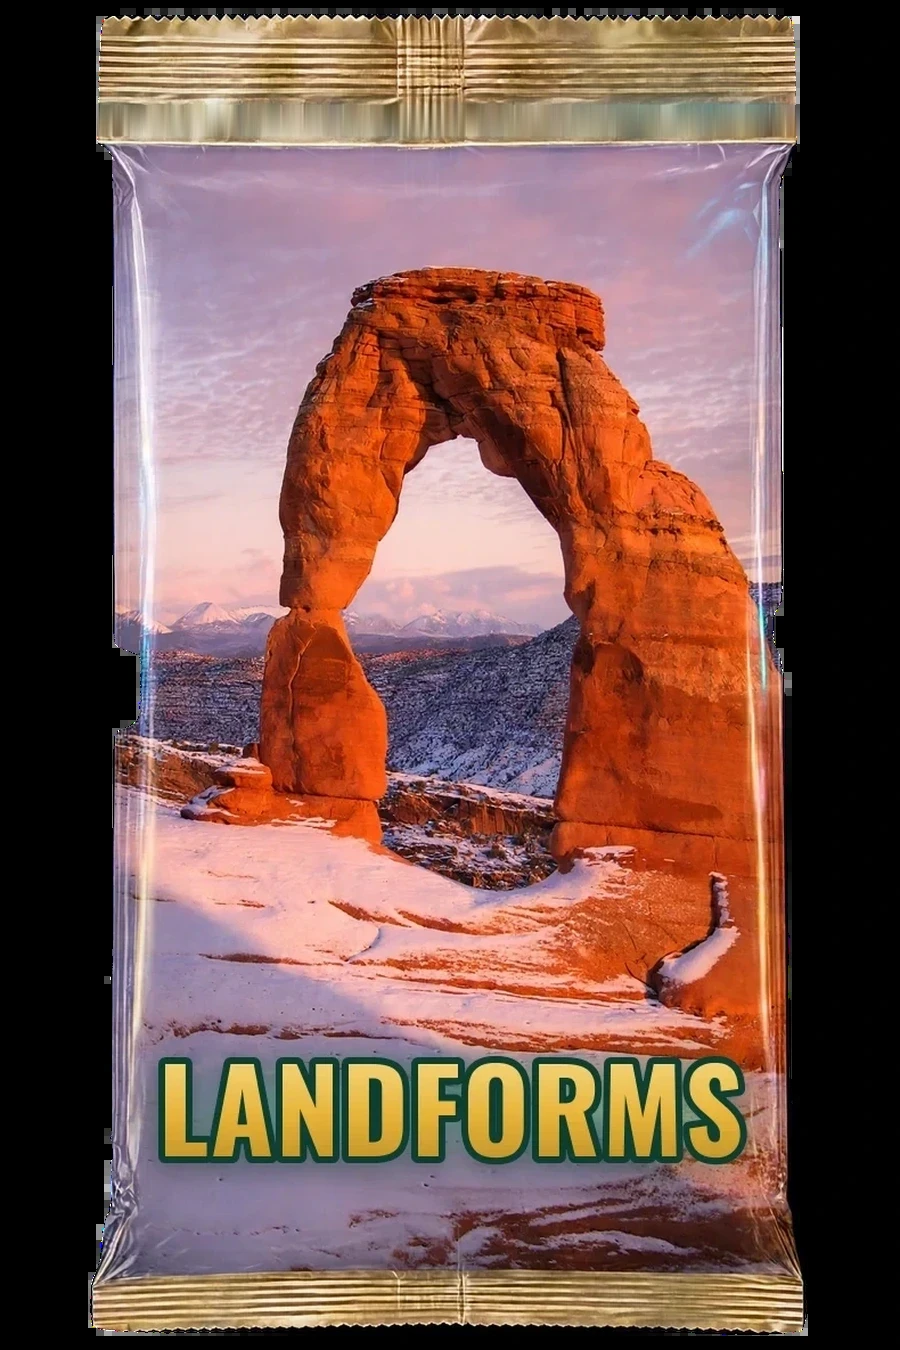
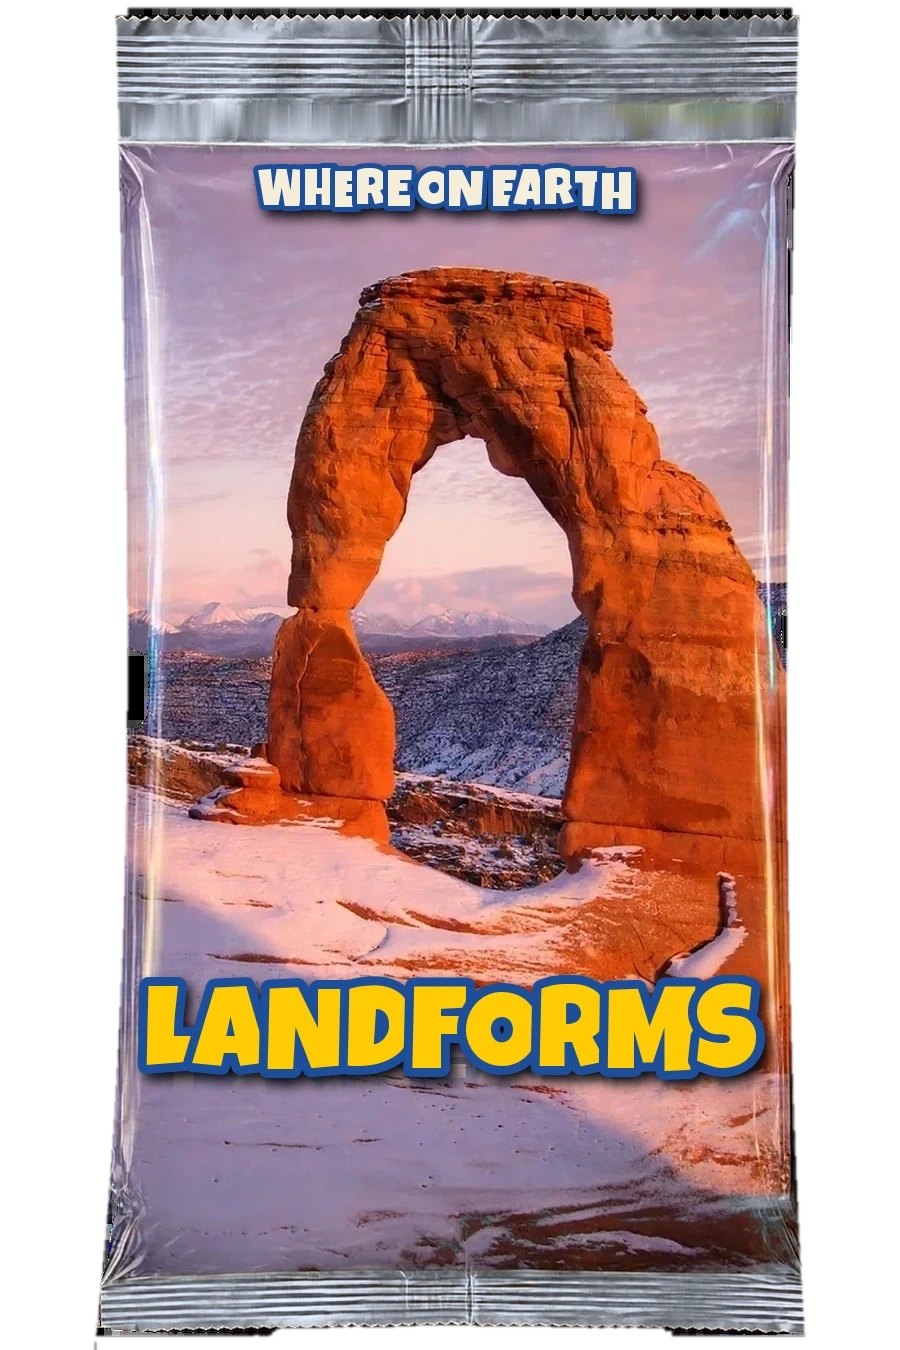
Pack line redesign: one logotype template, silver crimps, home wordmark
All four pack covers rebuilt on one template: WHERE ON EARTH brand line in cream over the pack-name hero in the booster logotype (Luckiest Guy, yellow fill, navy outline), silver crimped seals in place of gold. World Capitals and World Cities carry the lockup at top; Landmarks and Landforms keep the brand at top with the hero low, where their photos need it. Baked gold titles removed via title-less generative passes band-composited onto the existing art. Home wordmark and boot title use the same treatment (self-hosted Luckiest Guy woff2). Pack select: the 12-hour subline is gone, and the open-a-pack-now skip shortcut only shows when zero packs are stored.

diff --git a/src/styles/game.css b/src/styles/game.css
@@ -255,10 +255,10 @@ button { font: inherit; }
 body.game-settings #hud { opacity: 0; }
 .start-screen { display: flex; box-sizing: border-box; flex-direction: column; align-items: center; justify-content: safe center; overflow-y: auto; padding: calc(env(safe-area-inset-top, 0px) + 16px) 28px calc(env(safe-area-inset-bottom, 0px) + 28px); text-align: center; background: linear-gradient(180deg, rgba(2,4,9,.12), rgba(2,4,9,.56)); }
 .eyebrow { margin: 0 0 10px; color: #77caff; font-size: var(--fs-caption); font-weight: 750; letter-spacing: .18em; text-transform: uppercase; }
-h1 { max-width: 330px; margin: 0; color: var(--ink-title); font-size: clamp(46px, 15vw, 68px); line-height: .9; letter-spacing: -.065em; text-shadow: 0 0 30px rgba(77,176,255,.35); }
+h1 { max-width: 340px; margin: 0; font-family: 'Luckiest Guy', 'Arial Black', sans-serif; color: #FFCB05; font-size: clamp(44px, 14.5vw, 64px); line-height: .95; letter-spacing: .01em; -webkit-text-stroke: 2px #1E4E9C; text-shadow: 0 3px 0 #1E4E9C, 0 6px 14px rgba(0,0,0,.45); }
 /* Returning players get a compact one-line title; the big two-line title is
    a first-run treatment. */
-.start-screen.has-passport h1 { max-width: 100%; font-size: clamp(27px, 8.2vw, 34px); letter-spacing: -.04em; white-space: nowrap; }
+.start-screen.has-passport h1 { max-width: 100%; font-size: clamp(26px, 8vw, 33px); letter-spacing: .01em; white-space: nowrap; -webkit-text-stroke-width: 1.4px; text-shadow: 0 2px 0 #1E4E9C, 0 4px 10px rgba(0,0,0,.45); }
 .how-to { max-width: 310px; margin: 24px 0 28px; color: rgba(218,237,255,.78); font-size: var(--fs-base); line-height: 1.5; }
 .primary { min-width: 172px; min-height: 52px; padding: 0 24px; border: 0; border-radius: 999px; background: var(--ink-btn); color: #071426; font-weight: 800; cursor: pointer; box-shadow: 0 8px 28px rgba(89,185,255,.28); touch-action: manipulation; }
 .primary:active { transform: scale(.98); }
@@ -482,7 +482,7 @@ body.has-guess #hud { opacity: 0; }
 .boot-orb::after { content: ""; position: absolute; inset: -7px; border-radius: 50%; border: 2px solid transparent; border-top-color: rgba(127, 210, 244, .75); animation: boot-spin 1.1s linear infinite; }
 @keyframes boot-spin { to { transform: rotate(360deg); } }
 @keyframes boot-breathe { 50% { box-shadow: 0 0 0 1px rgba(127, 210, 244, .5), 0 0 46px rgba(77, 176, 255, .45), inset -8px -10px 18px rgba(0, 0, 0, .5); } }
-#boot .boot-title { margin: 0; color: var(--ink-title); font-size: 34px; font-weight: 800; line-height: 1; letter-spacing: -.045em; text-shadow: 0 0 30px rgba(77, 176, 255, .35); }
+#boot .boot-title { margin: 0; font-family: 'Luckiest Guy', 'Arial Black', sans-serif; color: #FFCB05; font-size: 34px; line-height: 1; letter-spacing: .01em; -webkit-text-stroke: 1.6px #1E4E9C; text-shadow: 0 3px 0 #1E4E9C, 0 6px 14px rgba(0,0,0,.45); }
 #boot .boot-stage { min-height: 20px; margin: 18px 0 12px; color: rgba(218, 237, 255, .82); font-size: 14px; font-weight: 600; }
 #boot .load-bar { width: min(240px, calc(100vw - 80px)); }
 #boot .boot-meta { display: flex; justify-content: space-between; width: min(240px, calc(100vw - 80px)); min-height: 16px; margin: 8px 0 0; color: rgba(var(--rgb-muted), .55); font-size: var(--fs-small); font-weight: 600; font-variant-numeric: tabular-nums; }
@@ -1159,6 +1159,7 @@ body.game-stats #hud { opacity: 0; }
 .pp-pack-progress { margin: 7px 40px 12px 0; color: rgba(var(--rgb-muted),.68); font-size: var(--fs-small); font-weight: 700; font-variant-numeric: tabular-nums; }
 .pp-pack-section { margin-top: 8px; border: 1px solid rgba(var(--rgb-line),.12); border-radius: 12px; overflow: hidden; background: rgba(var(--rgb-line),.025); }
 @font-face { font-family: 'Oswald'; src: url('../../assets/oswald-bold.woff2') format('woff2'); font-weight: 700; font-display: swap; }
+@font-face { font-family: 'Luckiest Guy'; src: url('../../assets/luckiest-guy.woff2') format('woff2'); font-weight: 400; font-display: swap; }
 .pp-pack-head { display: grid; grid-template-columns: 4px minmax(0,1fr) auto 12px; align-items: center; gap: 10px; width: 100%; min-height: 48px; padding: 7px 10px 10px 0; border: 0; background: var(--mail-paper); color: #22355c; font: inherit; text-align: left; cursor: pointer; touch-action: manipulation; position: relative; }
 .pp-pack-head-mail { grid-template-columns: 42px minmax(0,1fr) auto 12px; min-height: 58px; padding: 7px 10px; }
 .pp-pack-bar { width: 4px; align-self: stretch; }

diff --git a/src/modes/pack.js b/src/modes/pack.js
@@ -315,7 +315,9 @@ export function showPackSelect() {
     const waitHours = pack.record.stamina.nextAt == null ? 0
       : Math.max(0, Math.ceil((pack.record.stamina.nextAt - Date.now()) / (60 * 60 * 1000)));
     els.selectStamina.innerHTML = `<div class="pack-stamina-line"><span class="pack-icons" aria-hidden="true">${pack.record.stamina.stored > 0 ? PACK_ICON_FULL : PACK_ICON_EMPTY}${pack.record.stamina.stored > 1 ? PACK_ICON_FULL : PACK_ICON_EMPTY}</span><span class="pack-stamina-text">${staminaText(pack.record)}</span><span class="pack-skip-balance">${HOURGLASS_ICON}<span>${pack.record.skips}</span></span></div>`;
-    if (pack.record.stamina.stored < 2 && pack.record.skips > 0) {
+    // The buy-a-pack shortcut only appears when no pack is available at
+    // all (Sean, 2026-11-08); with a pack in hand it is just noise.
+    if (pack.record.stamina.stored === 0 && pack.record.skips > 0) {
       const actions = document.createElement('div');
       actions.className = 'pack-skip-actions';
       if (waitHours && pack.record.skips >= waitHours) {

diff --git a/index.html b/index.html
@@ -150,7 +150,6 @@
         <button class="icon-close home-nav pack-back" type="button" aria-label="Back to packs">×</button>
         <h2 id="pack-heading">World Capitals</h2>
         <div class="pack-select" hidden>
-          <p class="pack-subline">A new pack every 12 hours.</p>
           <div class="pack-stamina" aria-live="polite"></div>
           <div class="pack-choices"></div>
         </div>
